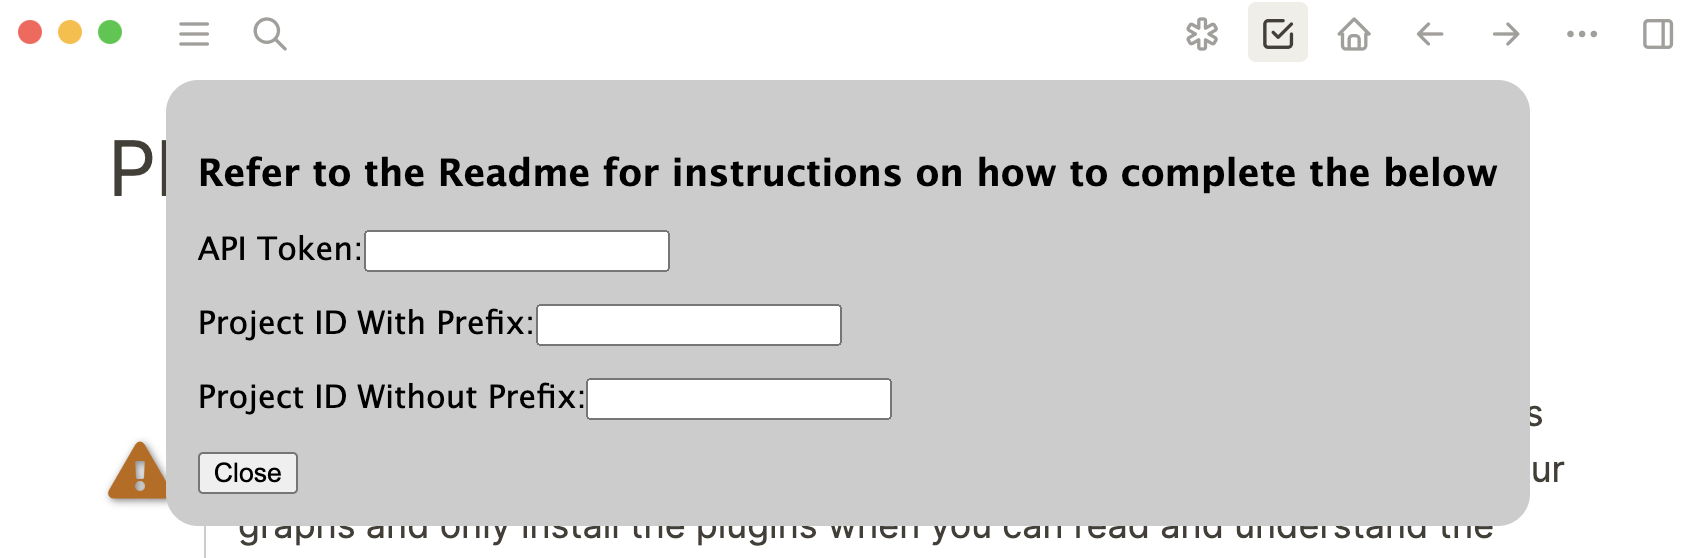
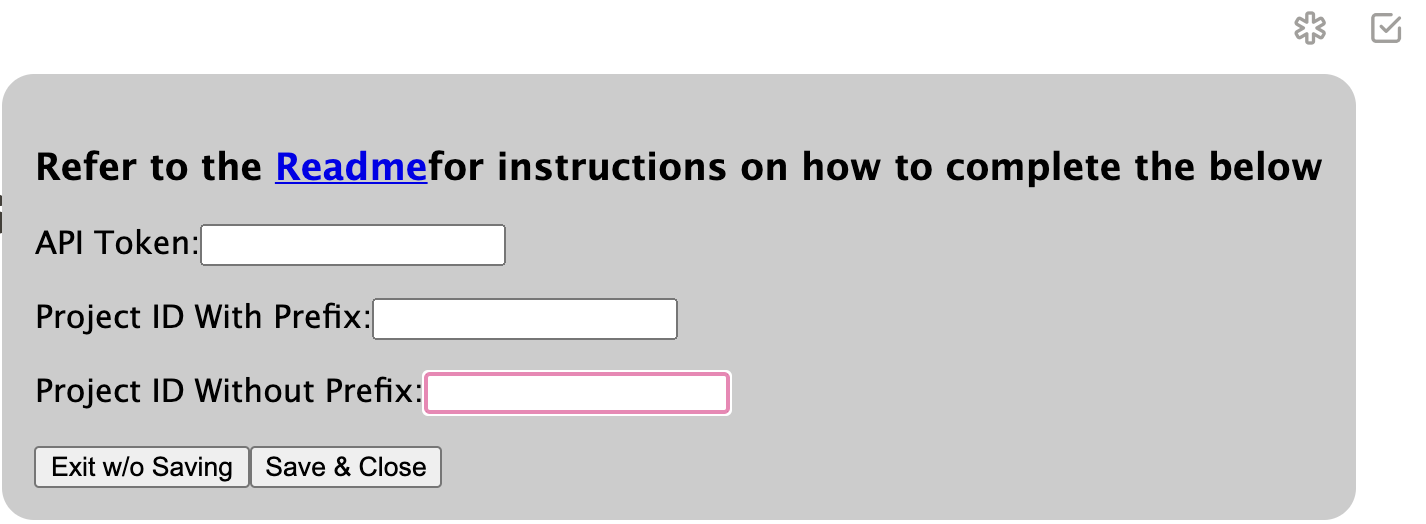
Updated readme

diff --git a/src/App.tsx b/src/App.tsx
@@ -32,7 +32,7 @@ export default class App extends React.Component {
               Refer to the{' '}
               <a href="https://github.com/hkgnp/logseq-todoist-plugin">
                 Readme
-              </a>
+              </a>{' '}
               for instructions on how to complete the below
             </h3>
             <form>
